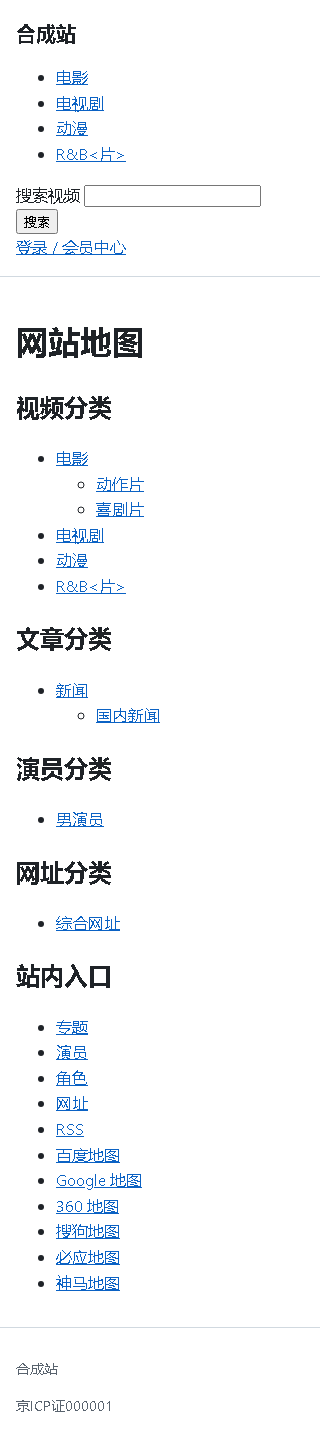
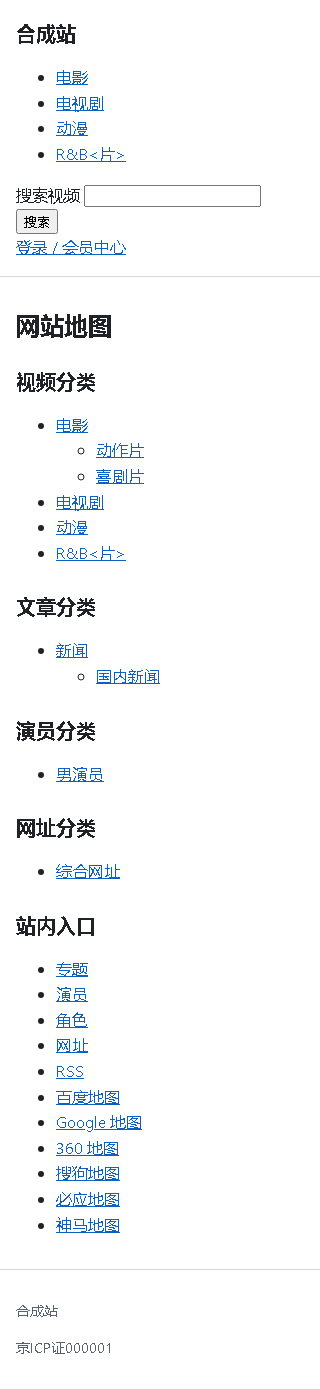
style(site)+test: B06 地图/帮助/版权页按既有样式最小补齐（标题层级与长文本断行），站点检查加长文本压力与 reduced-motion 断言 (MACC-55)

diff --git a/backend/src/main/resources/static/site/site.css b/backend/src/main/resources/static/site/site.css
@@ -923,3 +923,33 @@ img {
 
 /* 动效统一遵守 reduced-motion（新增元素不引入必须动画；
  * 链接/按钮仅颜色变化，不做位移，故无须额外媒体查询）。 */
+
+/* B06（MACC-55）：地图、帮助、版权页。不新增视觉，只做与既有页面一致的容器与标题规则，
+ * 以及长片名/长分类名断行；正文与提示框沿用 detail-content、notice。 */
+.map-page,
+.help-page,
+.copyright-page {
+  min-width: 0;
+}
+
+.map-page > h1,
+.help-page > h1,
+.copyright-page > h1 {
+  margin: var(--site-space-3) 0;
+  font-size: var(--site-font-size-xl);
+  line-height: 1.3;
+  overflow-wrap: anywhere;
+}
+
+.map-section__title {
+  font-size: var(--site-font-size-lg);
+  margin: var(--site-space-4) 0 var(--site-space-2);
+  overflow-wrap: anywhere;
+}
+
+.map-tree,
+.map-links,
+.copyright-notice,
+.copyright-page__back {
+  overflow-wrap: anywhere;
+}

diff --git a/backend/src/test/browser/b06_site_check.py b/backend/src/test/browser/b06_site_check.py
@@ -7,7 +7,7 @@ backend/target 中已打包的应用（W1/W2 = 00/01/10/11 × 根路径 / 子目
   1. 真实 HTTP：地图、帮助、版权页、站点级 RSS 与 6 种搜索引擎地图、自定义标签页、二维码、桌面快捷方式、联想词、ajax/data 与 Provide
      的状态码、MIME、编码、缓存头、nosniff、页面 CSP、canonical 与站内链接前缀、XML/JSON 可解析、外部主机只按 W2 出现在页面数据中；
   2. Chromium（Playwright，无头）：所有非本机请求在浏览器内被拦截并记录（不访问任何外部站点）；页面无 CSP 违规；
-  3. 根路径 W1/W2=11 时另做：320/360/768/1280 宽度无横向溢出（截图）、键盘 Tab 顺序与可见焦点、prefers-reduced-motion 记录。
+  3. 根路径 W1/W2=11 时另做：320/360/768/1280 宽度无横向溢出（截图，另做长文本压力）、键盘 Tab 顺序与可见焦点、prefers-reduced-motion（reduce 下三页无动画与过渡）。
 → 结束每个应用子进程（只按本脚本启动的 PID）→ 删除一次性库并确认已不存在。
 
 管理账号只经环境变量传入：MACCMS_IT_ADMIN_URL（jdbc:mysql://127.0.0.1:3306/）、MACCMS_IT_ADMIN_USERNAME、MACCMS_IT_ADMIN_PASSWORD；
@@ -324,7 +324,7 @@ def browser_checks(pw, origin, prefix, shots, full, result):
     if full:
         out['layout'] = layout_checks(ctx, origin + prefix, shots, result)
         out['keyboard'] = keyboard_checks(ctx, origin + prefix, result)
-        out['reducedMotion'] = motion_checks(browser, origin + prefix)
+        out['reducedMotion'] = motion_checks(browser, origin + prefix, result)
     ctx.close()
     browser.close()
     out['blockedHosts'] = sorted(set(out['blocked']))
@@ -348,8 +348,18 @@ def layout_checks(ctx, base, shots, result):
             if over > 1:
                 result['failures'].append('overflow %s@%d +%dpx' % (name, width, over))
             p.screenshot(path=str(shots / ('%s-%d.png' % (name, width))), full_page=True)
+            # 长文本压力（MACC-55）：合成数据里没有超长片名/分类名，在浏览器内把标题与链接文字换成 120 个无空格字符后复测
+            over = p.evaluate(STRESS)
+            out['%s@%d stress' % (name, width)] = over
+            if over > 1:
+                result['failures'].append('overflow %s@%d stress +%dpx' % (name, width, over))
         p.close()
     return out
+
+
+STRESS = """() => {const s='长'.repeat(40)+'W'.repeat(80);
+    document.querySelectorAll('main h1, main h2, main a, main .notice').forEach(e => { e.textContent = s; });
+    return document.documentElement.scrollWidth - document.documentElement.clientWidth}"""
 
 
 def keyboard_checks(ctx, base, result):
@@ -373,17 +383,24 @@ def keyboard_checks(ctx, base, result):
     return out
 
 
-def motion_checks(browser, base):
-    """新页面本身没有动画；记录 reduce 与 no-preference 下链接的 transition-duration（样式由前端实施后复查）。"""
+def motion_checks(browser, base, result):
+    """三页在 reduce 下不得有任何元素带动画或非零过渡；no-preference 下只记录（site.css 的动效都在 no-preference 媒体查询内）。"""
     out = {}
     for mode in ('reduce', 'no-preference'):
         c = browser.new_context(reduced_motion=mode)
         c.route('**/*', lambda r: r.continue_() if urllib.parse.urlsplit(r.request.url).hostname in (
             '127.0.0.1', 'localhost') else r.abort())
         p = c.new_page()
-        p.goto(base + HTML['map'], wait_until='load')
-        out[mode] = p.evaluate("""() => {const e=document.querySelector('.map-tree a, .map-links a');
-            return e ? getComputedStyle(e).transitionDuration : null}""")
+        for name, rel in HTML.items():
+            p.goto(base + rel, wait_until='load')
+            moving = p.evaluate("""() => {const m = matchMedia('(prefers-reduced-motion: reduce)').matches;
+                const bad = [...document.querySelectorAll('*')].filter(e => {const s = getComputedStyle(e);
+                    return s.animationName !== 'none' || s.transitionDuration.split(',').some(d => parseFloat(d) > 0)})
+                    .map(e => e.tagName + '.' + (e.className || '').toString().split(' ')[0]);
+                return {reduceMatches: m, moving: bad.slice(0, 5)}}""")
+            out['%s %s' % (name, mode)] = moving
+            if mode == 'reduce' and (not moving['reduceMatches'] or moving['moving']):
+                result['failures'].append('reduced-motion %s %s' % (name, json.dumps(moving, ensure_ascii=False)))
         c.close()
     return out
 

diff --git a/backend/src/test/java/com/maccms/backend/site/SiteStylesheetTest.java b/backend/src/test/java/com/maccms/backend/site/SiteStylesheetTest.java
@@ -80,6 +80,23 @@ class SiteStylesheetTest {
         assertThat(m.find()).as("CSS 应包含至少一个契约 class").isTrue();
     }
 
+    /** B06（MACC-55）地图/帮助/版权页：页面根有规则，标题与地图链接、版权提示能断开超长无空格文本。 */
+    @Test
+    void b06MiscPagesWrapLongText() throws IOException {
+        String body = stripComments(css());
+        for (String klass : new String[]{"map-page", "help-page", "copyright-page", "map-section__title",
+                "map-tree", "map-links", "copyright-notice"}) {
+            assertThat(body).as("缺少 .%s 的规则", klass)
+                    .containsPattern(Pattern.compile("\\." + Pattern.quote(klass) + "\\b").pattern());
+        }
+        Matcher title = Pattern.compile("\\.copyright-page > h1\\s*\\{([^}]*)}").matcher(body);
+        assertThat(title.find()).isTrue();
+        assertThat(title.group(1)).contains("overflow-wrap: anywhere");
+        Matcher links = Pattern.compile("\\.map-tree,[^{]*\\{([^}]*)}").matcher(body);
+        assertThat(links.find()).isTrue();
+        assertThat(links.group(1)).contains("overflow-wrap: anywhere");
+    }
+
     @Test
     void isValidUtf8WithoutBom() throws IOException {
         byte[] raw = Files.readAllBytes(CSS);

diff --git a/docs/architecture/16-b06-misc-pages-provide.md b/docs/architecture/16-b06-misc-pages-provide.md
@@ -11,7 +11,7 @@
 |---|---|
 | 分支 | `agent/claude/macc-30`（只用普通提交，没有 reset/rebase/amend/force） |
 | 开工基线（已验收 main，含 B05 合并） | `2313076`（merge MACC-29），包含 B05 固定交付 `967941951bc52664b54a001bf96a946fbd75929e`；平台基线提交 `3c2348d` |
-| 前端基线 | 已验收前端 `3100239`（MACC-54，经 B05 整合）；本批没有修改 `static/site/`、`jte/site/components/`、`jte/site/layout/` |
+| 前端基线 | 已验收前端 `3100239`（MACC-54，经 B05 整合）；后端提交没有修改 `static/site/`、`jte/site/components/`、`jte/site/layout/`。整合任务 MACC-55 只在 `site.css` 末尾追加三页的最小规则（第 5 节） |
 | 提交 | `de890ba` 契约稿 → `8004bca` 客户端 IP、整行读取、Provide 与黄金 → `1afe59e` site 杂项页与 ajax → 文档与验证（最终 SHA/tree 以交付评论为准） |
 
 ### 1. 范围、分工与文件归属
@@ -27,7 +27,7 @@
 | 不在本批 | `Ajax::hits/digg/score/referer`（写计数）、`ajax/pwd`（B05 改为 POST + 签名票据）、`verify_check`（B11）、Provide `detail_inc_hits` 计数（B11）、`gbook`/`comment` 页面与写入（B11）、手机模板/繁体（B12） | 这些 `ajax/*` 操作在 Java 中 404（交还 PHP） | — |
 
 **数据归属**：旧表由 `content` 读取——新增 `content.application.LegacyRowReadService`（`infrastructure.LegacyRowMapper`，SQL 在 `mapper/content/LegacyRowMapper.xml`）提供旧协议需要的"整行"读取；`openapi` 与 `site` 只调用它，自己没有 Mapper。
-**文件归属**：后端拥有 `openapi`、`common.clientip`、`common.web.LegacyJson`、`content` 的整行读取、`site` 中新增的控制器/视图模型与新增页面模板（`jte/site/pages/map.jte`、`help.jte`、`copyright.jte`、`jte/site/fragments/mapTree.jte`）。共享的 `components/`、`layout/`、`static/site/site.css`、`trial.js` 与组件签名**本批不修改**；新页面只用既有 class（`notice`、`detail-content`）与第 5 节列出的新语义 class，样式由前端另行实施。
+**文件归属**：后端拥有 `openapi`、`common.clientip`、`common.web.LegacyJson`、`content` 的整行读取、`site` 中新增的控制器/视图模型与新增页面模板（`jte/site/pages/map.jte`、`help.jte`、`copyright.jte`、`jte/site/fragments/mapTree.jte`）。共享的 `components/`、`layout/`、`static/site/site.css`、`trial.js` 与组件签名**本批不修改**；新页面只用既有 class（`notice`、`detail-content`）与第 5 节列出的新语义 class；三页样式由整合任务 MACC-55 按既有样式最小补齐（第 5 节）。
 
 ### 2. 客户端 IP 组件（D2 ④，`common.clientip`）
 
@@ -194,9 +194,15 @@
 - 输出（旧 JSON 同形）：整行字段（去掉访问密码列、`<前缀>_time_hits`、`<前缀>_time_make`，视频另去掉 8 个播放/下载列），旧 `listData` 附加的 `type`（分类整行，`type_extend` 经 json_decode/encode，顶级分类带 `childids`，子分类带上级的 `type_1`）与 `type_1`（上级分类）照旧；角色另有 `data`（关联视频整行与其 `type`/`type_1`，只在已审核且分类可见时给出，与视频一样不含播放/下载列，否则 `null`）；`<前缀>_time`、`_time_add` 格式化为 `Y-m-d H:i:s`；追加 `detail_link`（站内详情地址，含 base-url 路径前缀）与 `<前缀>_pic/_pic_thumb/_pic_slide`（经 `ImageUrlNormalizer`，缺少的键追加在末尾，空值为空串，W2 关闭时外部图片为空串）；专题以 topic_id 为键（列表为空时为 `[]`）。会员组 `group` 不输出。`application/json;charset=UTF-8`、`Cache-Control: no-cache`。
 - 旧版在 PHP 8 下 mid=1/2 恒为 500（先把 `vod_time` 格式化成字符串，再拼详情地址时 `date('Y', 字符串)` 抛类型错误，`common.php:1881`）；PHP 7.3 只告警并输出。新版按 7.3 的输出对齐（`AjaxGoldenMySqlIT`）。
 
-### 5. 前端配合（Kimi）
+### 5. 页面结构与样式（MACC-55 整合）
 
-后端已交付页面结构、语义 class 与状态；样式（`site.css`）由前端另行实施，后端不修改 `site.css`、组件与布局。真实 HTTP/浏览器检查（第 9 节）在未加样式的结构上已通过 320/360/768/1280 无横向溢出与键盘焦点检查，样式交付后整合时复跑。
+后端交付页面结构、语义 class 与状态。按用户 2026-10-17 的指示（前台沿用现有统一极简样式，不做新设计，不再安排独立页面美化任务），三页样式不再交给前端单独实施，由 Claude 在整合时按现有 `site.css` 做最小处理：DOM、class、路由、数据、组件、布局与 `trial.js` 都不变，只在 `site.css` 末尾追加 "B06（MACC-55）" 一段——
+
+- 页面根 `min-width: 0`，`h1` 与其他内容页一致（`--site-font-size-xl`、行高 1.3、上下 `--site-space-3`）；地图分区标题 `h2.map-section__title` 与搜索页结果标题一致（`--site-font-size-lg`），保持 h1 > h2 的层级；
+- 标题、地图链接、版权提示与返回链接 `overflow-wrap: anywhere`。依据：未加这段时，把标题与链接换成 120 个无空格字符后四种宽度都横向溢出（+1360～+2256px，本地实测），加后为 0；正常合成数据下加前加后都不溢出；
+- 正文与提示框沿用 `detail-content`、`notice`；不新增颜色、字体、图片、动画或断点。`SiteStylesheetTest.b06MiscPagesWrapLongText` 静态兜底这几条规则。
+
+站点头部的分类导航与搜索表单（`site-nav`、`site-search`，`layout/page.jte`）在全站都没有专门样式，三页与 B05 各页一致，本任务不改。
 
 | 页面 | 根元素与区块 | 状态 |
 |---|---|---|
@@ -284,7 +290,7 @@ B05 及以前登记的差异（可见分类、`type_id=0`、密码字符串 `"0"
 | 单元/契约/MockMvc/真实 HTTP | `./mvnw clean verify` | 交付评论 |
 | MySQL 集成与黄金对照 | `./mvnw verify -Pmysql-it`（含 `ProvideGoldenMySqlIT`、`AjaxGoldenMySqlIT` 与既有 IT） | 交付评论 |
 | PHP 黄金 | `provide_golden.php`（PHP 8.0.30、7.3.33 各一份）、`qrcode_url_golden.php`（两版） | 资源文件 + 上列测试 |
-| 真实 HTTP + 浏览器 | `python backend/src/test/browser/b06_site_check.py --out docs/architecture/16-b06-site-check`：已打包应用 × W1/W2 = 00/01/10/11 × 根路径 / 子目录 `/sub/` 共 8 组；Chromium（Playwright）；根路径 11 另查 320/360/768/1280 横向溢出、键盘 Tab 与可见焦点、reduced-motion | `16-b06-site-check/summary.json`、`screenshots/` |
+| 真实 HTTP + 浏览器 | `python backend/src/test/browser/b06_site_check.py --out docs/architecture/16-b06-site-check`：已打包应用 × W1/W2 = 00/01/10/11 × 根路径 / 子目录 `/sub/` 共 8 组；Chromium（Playwright）；根路径 11 另查 320/360/768/1280 横向溢出（另做长文本压力：浏览器内把 `main` 中的标题、链接、提示换成 120 个无空格字符后再量）、键盘 Tab 与可见焦点、reduced-motion（`reduce` 下三页没有任何元素带动画或非零过渡，否则记失败） | `16-b06-site-check/summary.json`、`screenshots/` |
 | 中规模测量 | `python backend/src/test/perf/b06_perf_run.py --out docs/architecture/16-b06-perf-raw`（30 万行，真实 HTTP，实际 SQL + EXPLAIN） | `16-b06-perf-report.md`、`16-b06-perf-raw/` |
 
 `b06_site_check.py` 每组检查：地图/帮助/版权页的状态码、MIME、`no-cache`、严格 CSP、`nosniff`、canonical 与站内链接前缀（子目录时以 `/sub/` 开头）、页面无外部主机；7 种 RSS/地图 XML 可解析、MIME、`loc` 为 base-url 下的绝对地址；标签页 404；二维码 PNG 与缓存头、非法 URL 空响应；快捷方式 MIME、`filename*`、正文首行、注入 400；ajax/data 的 JSON、`detail_link` 前缀、外链图片只在 W2 打开时出现、不含密码与播放列；联想词 `url` 前缀与 `no-store`；Provide JSON/XML/`closed`/HEAD、缓存头、Provide 图片地址不受 W2 影响；浏览器无 CSP 违规、无外部请求。
@@ -293,4 +299,4 @@ B05 及以前登记的差异（可见分类、`type_id=0`、密码字符串 `"0"
 
 ### 10. 回滚
 
-不写库、无数据迁移、零 DDL；回滚即普通 `git revert` 本批提交（不改写历史）。回滚点：已验收 main `2313076`；契约稿 `de890ba`；Provide 提交 `8004bca`；site 提交 `1afe59e`。运行时：`MACCMS_OPENAPI_ENABLED=false`（默认）时不注册 Provide 路由；`MACCMS_SITE_ENABLED=false` 时不注册任何 site 页面；`MACCMS_SITE_SEARCH_ENABLED`/`MACCMS_CONTENT_SEARCH_ENABLED` 关闭时联想词输出关闭提示；`MACCMS_TRUSTED_PROXIES` 留空即回到"只信连接对端"。
+不写库、无数据迁移、零 DDL；回滚即普通 `git revert` 本批提交（不改写历史）。回滚点：已验收 main `2313076`；契约稿 `de890ba`；Provide 提交 `8004bca`；site 提交 `1afe59e`；后端固定交付 `39804d9`（MACC-55 三页样式整合之前）。运行时：`MACCMS_OPENAPI_ENABLED=false`（默认）时不注册 Provide 路由；`MACCMS_SITE_ENABLED=false` 时不注册任何 site 页面；`MACCMS_SITE_SEARCH_ENABLED`/`MACCMS_CONTENT_SEARCH_ENABLED` 关闭时联想词输出关闭提示；`MACCMS_TRUSTED_PROXIES` 留空即回到"只信连接对端"。
